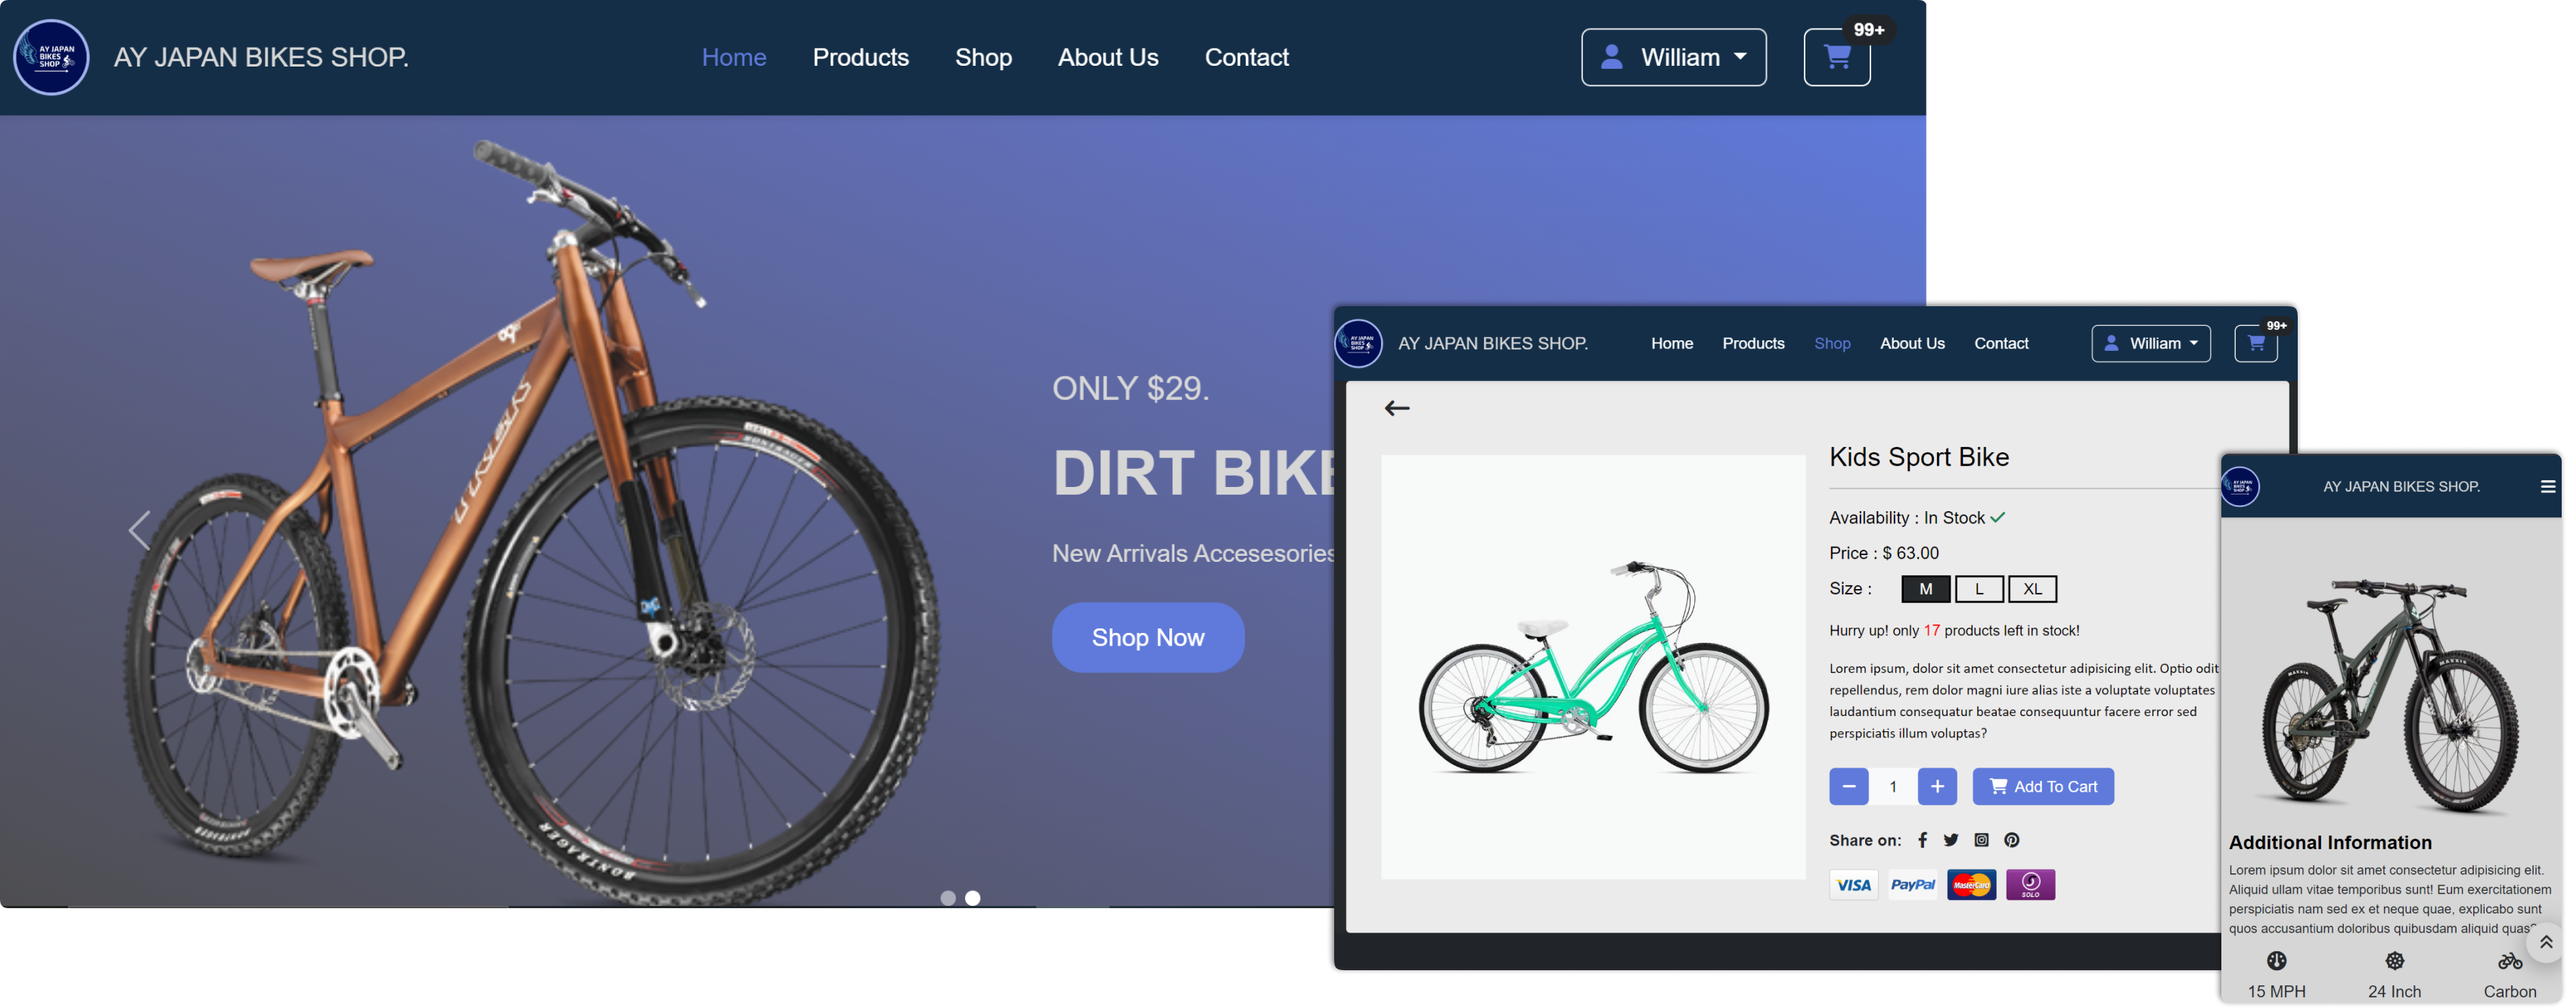
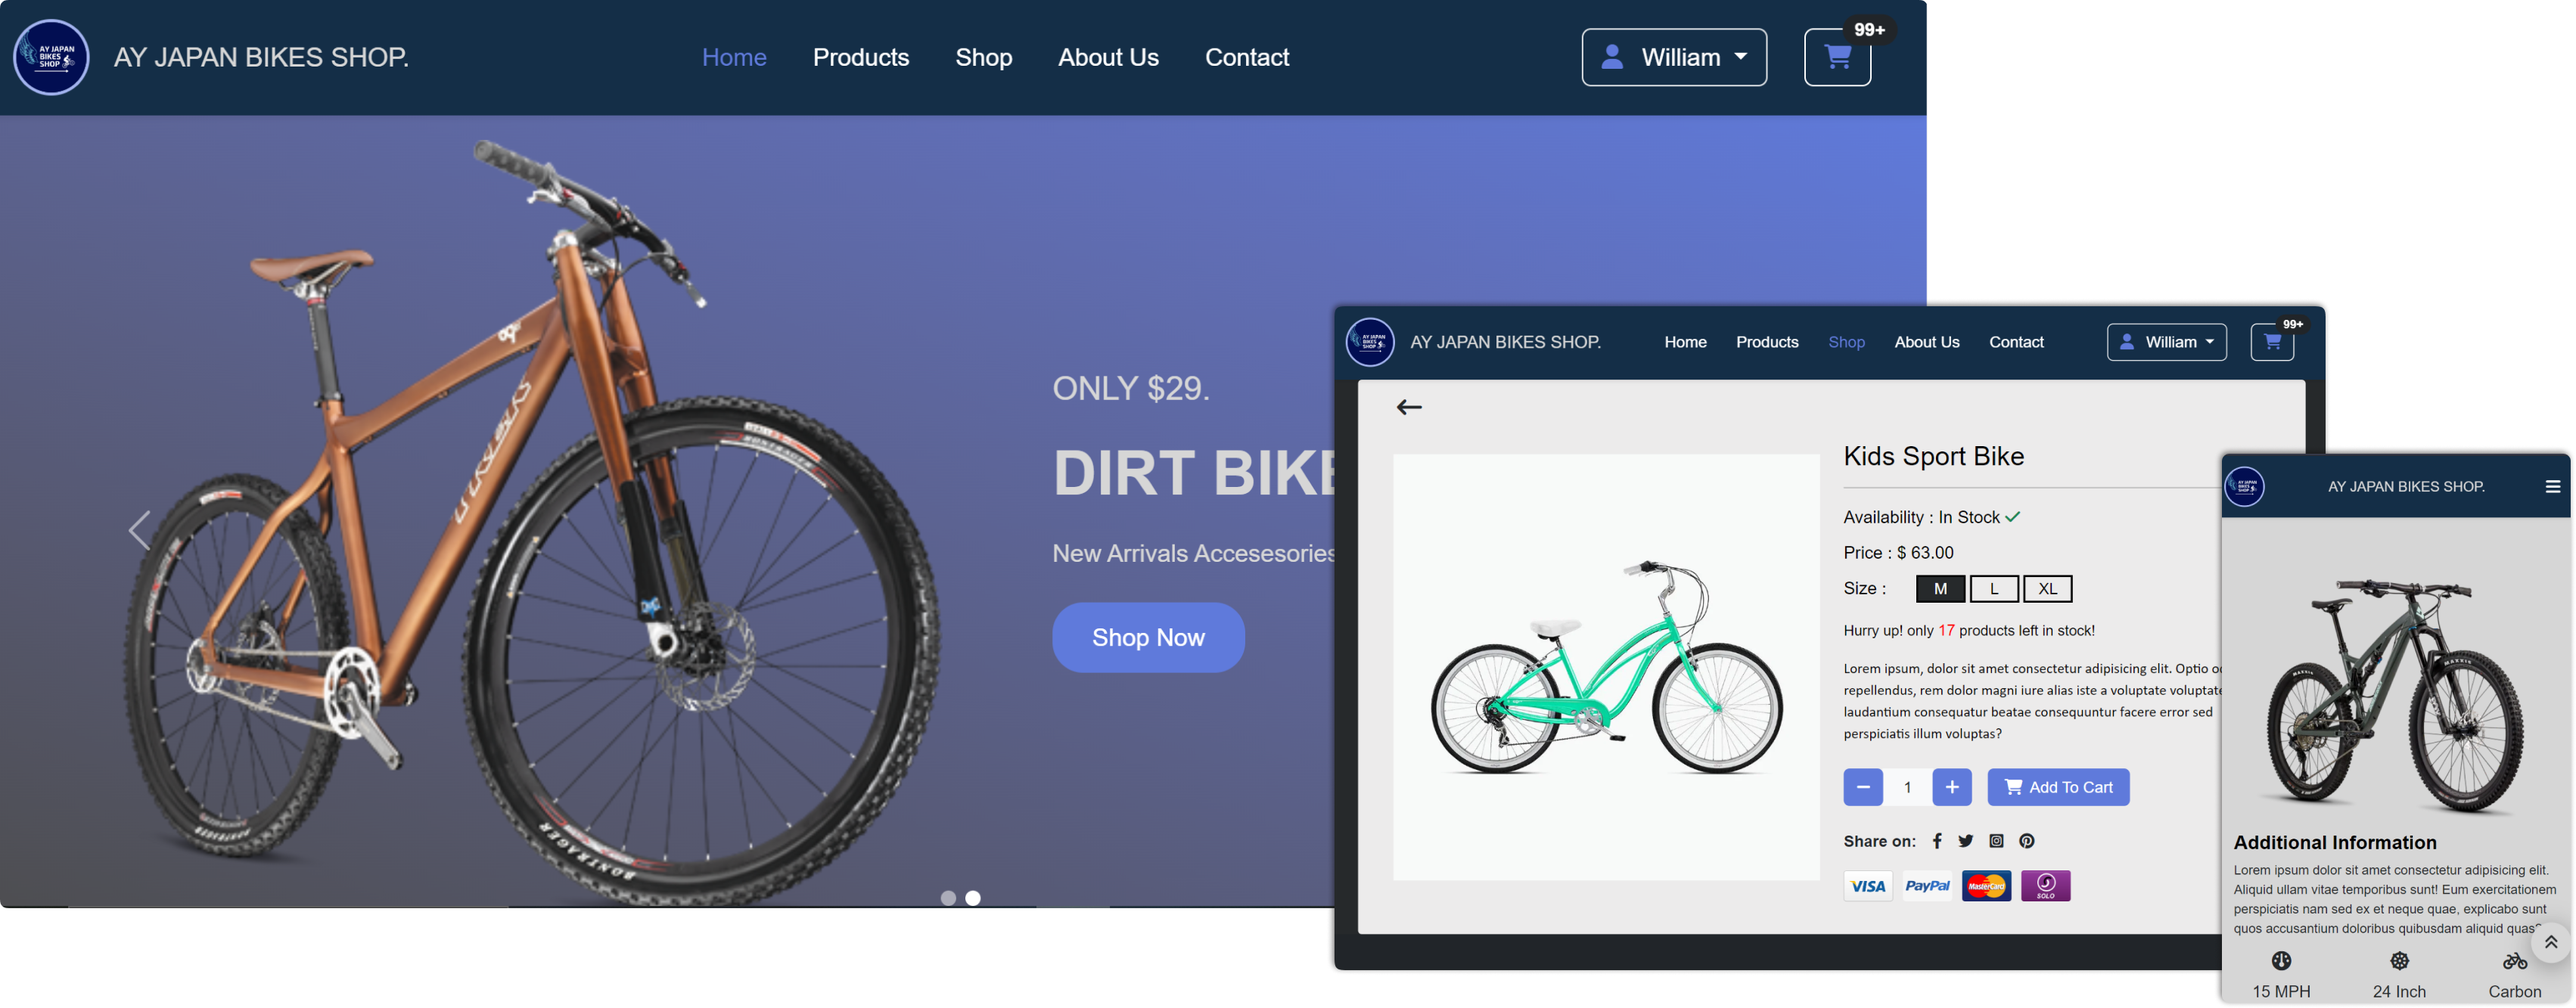
23 noon commit

diff --git a/index.html b/index.html
@@ -334,12 +334,30 @@
                 <img src="image/ay.png" class="mx-auto d-block" alt="">
                 <div class="mt-4">
                     <div class="d-flex align-items-center justify-content-between">
-                        <h3>H-Social Media</h3>
+                        <h3>AY Japan Bikes Shop</h3>
                         <a href="https://daniel-0104.github.io/h-social-media">
                             <button id="demo" class="btn">Demo</button>
                         </a>
                     </div>
-                    <label>"A visually engaging social platform focused on frontend development. Users can explore posts, like, comment, watch videos, and view/update profiles (with static data). Backend integration with Laravel is planned."</label>
+                    <label>"I created a website with an admin panel and a user site where users can create their own accounts and buy bikes. However, I haven't hosted the project yet, so currently, only the user interface is available. If you're interested, I have a video link showing the full Laravel project on Facebook: <a href="">Link</a> ."</label>
+                    <div class="d-flex align-items-center mt-4" id="language-content">
+                        <span>Laravel</span>
+                        <span>JQuery</span>
+                        <span>JavaScript</span>
+                        <span>BootStrap</span>
+                    </div>
+                </div>
+            </div>
+            <div id="portfolio-content">
+                <img src="image/cinema.png" class="mx-auto d-block" alt="">
+                <div class="mt-4">
+                    <div class="d-flex align-items-center justify-content-between">
+                        <h3>M-THEATER</h3>
+                        <a href="https://daniel-0104.github.io/h-social-media">
+                            <button id="demo" class="btn">Demo</button>
+                        </a>
+                    </div>
+                    <label>"This is a cinema booking website design that includes features such as viewing movie details, booking tickets, viewing order history, watching movie trailers, checking out, and more."</label>
                     <div class="d-flex align-items-center mt-4" id="language-content">
                         <span>CSS</span>
                         <span>JavaScript</span>

diff --git a/style.css b/style.css
@@ -1,13 +1,16 @@
 :root{
-    --nav-bar : #154b6b;
-    --body : #022F40;
-    --tint: #00ddff;    
+    --nav-bar : #1E1E1E;
+    --body : #052a37;
+    --tint: #1FC3FF;    
     --header: #0fd3ff;
-    --button: #1785c5;
-    --bg: #206189c8;
+    --button: #0d4f6f;
+    --bg: #2B2929;
 }
 body{
-    background-image: linear-gradient(to right top, #0a3957, #0c3b58, #0d3d5a, #0f3f5b, #11415c);
+    /* background-color: #353d42; */
+    background-image: linear-gradient(to right top, #3f3d3d, #3a3838, #353333, #302e2e, #2b2929);
+    /* background-image: linear-gradient(to right bottom, #3f3d3d, #3a3939, #363535, #313131, #2d2d2d); */
+    /* background-image: linear-gradient(to right top, #0a3957, #0c3b58, #0d3d5a, #0f3f5b, #11415c); */
     color: white;
     transition: 0.8s;
 }
@@ -399,7 +402,7 @@ body::-webkit-scrollbar-thumb{
     margin-top: -7px;
 	border-top: 7px solid transparent;
 	border-bottom: 7px solid transparent; 
-	border-right: 7px solid #164666; 
+	border-right: 7px solid #1b5a81; 
 }
 @media screen and (max-width: 450px){
     #ex-icon{
